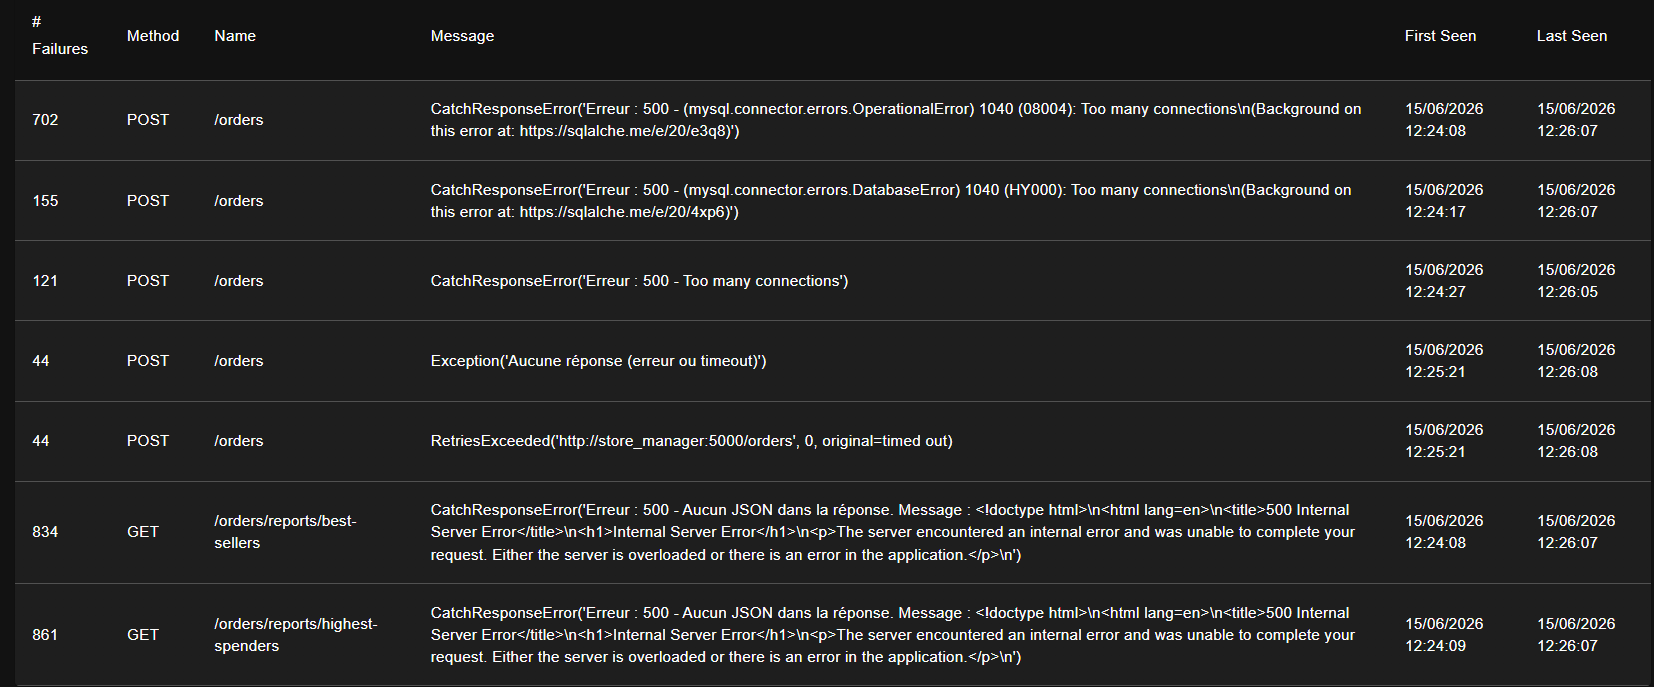
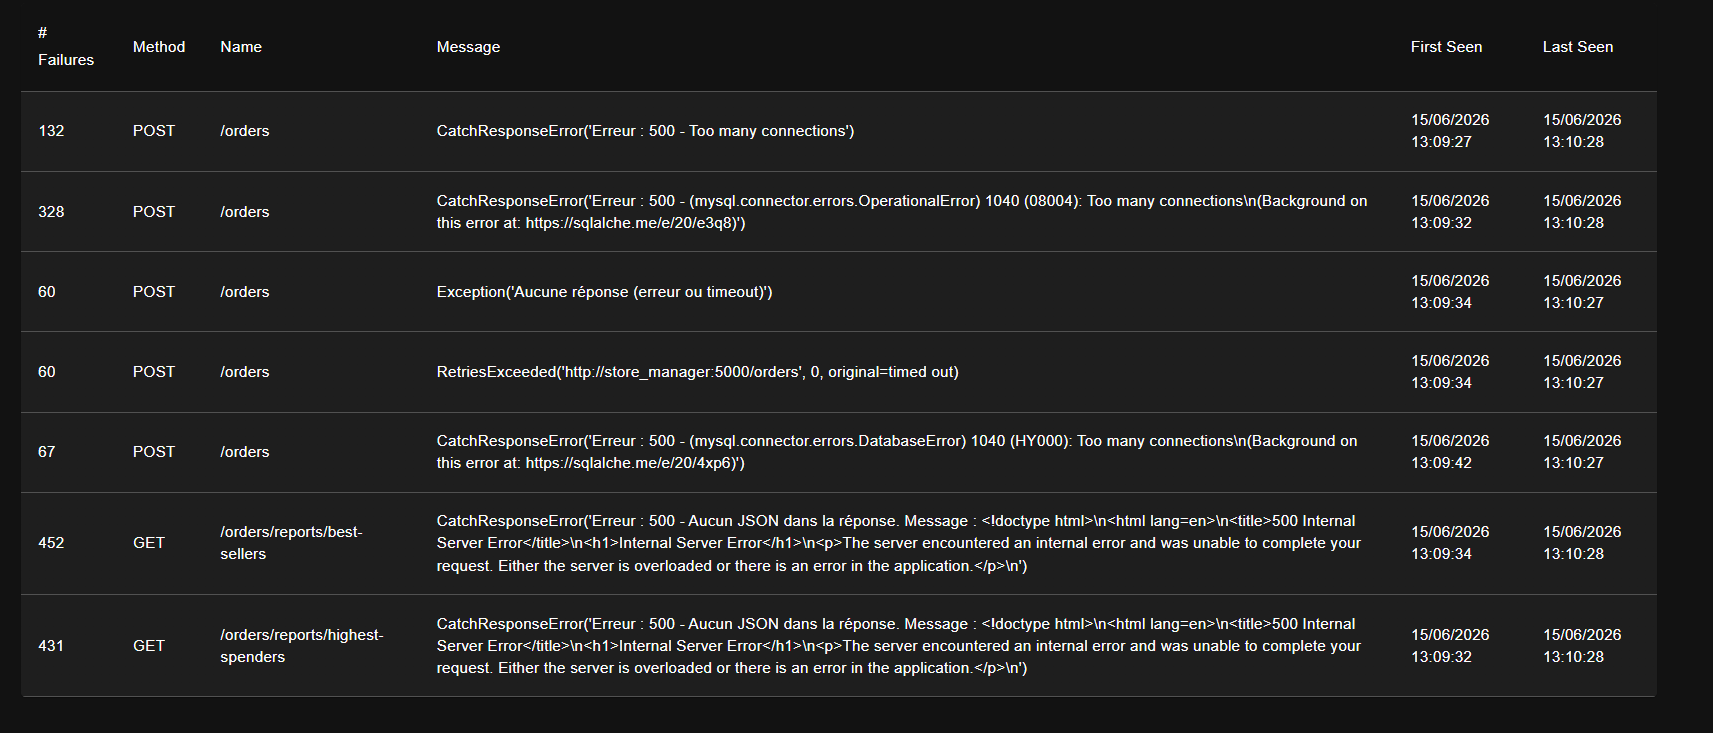
manip fini

diff --git a/src/orders/queries/read_order.py b/src/orders/queries/read_order.py
@@ -1,18 +1,17 @@
 """
-Orders (read-only model)
+Orders (read-only model) [OPTIMIZED]
 SPDX - License - Identifier: LGPL - 3.0 - or -later
 Auteurs : Gabriel C. Ullmann, Fabio Petrillo, 2025
 """
 import json
-import time
 from db import get_redis_conn, get_sqlalchemy_session
 from collections import defaultdict
-from logger import Logger
 from orders.models.order import Order
 from orders.models.order_item import OrderItem
 from sqlalchemy.sql import func
+from logger import Logger
 
-logger = Logger.get_instance("order_reports")
+logger = Logger.get_instance("read_order")
 
 def get_order_by_id(order_id):
     """Get order by ID from Redis"""
@@ -29,7 +28,7 @@ def get_highest_spending_users_mysql():
     """Get report of highest spending users from MySQL"""
     session = get_sqlalchemy_session()
     limit = 10
-    
+
     try:
         results = session.query(
             Order.user_id,
@@ -38,7 +37,7 @@ def get_highest_spending_users_mysql():
          .order_by(func.sum(Order.total_amount).desc())\
          .limit(limit)\
          .all()
-        
+
         return [
             {
                 "user_id": result.user_id,
@@ -54,7 +53,7 @@ def get_best_selling_products_mysql():
     session = get_sqlalchemy_session()
     limit = 100
     result = []
-    
+
     try:
         order_items = session.query(
             OrderItem.product_id,
@@ -63,7 +62,7 @@ def get_best_selling_products_mysql():
          .order_by(func.sum(OrderItem.quantity).desc())\
          .limit(limit)\
          .all()
-        
+
         for order_item in order_items:
             result.append({
                 "product_id": order_item[0],
@@ -75,17 +74,21 @@ def get_best_selling_products_mysql():
     finally:
         session.close()
 
-def get_highest_spending_users_redis():
+def get_highest_spending_users_redis(skip_cache=False):
     """Get report of highest spending users from Redis"""
     result = []
-    try: 
-        start_time = time.time()
-        # TODO: optimiser
-        r = get_redis_conn()
+    r = get_redis_conn()
+    cached = r.get("report:highest_spenders")
+    logger.debug(f"Dans le cache: {cached}")
+    if cached and not skip_cache:
+        return json.loads(cached)
+
+    try:
+        logger.debug("Créer le rapport highest_spenders")
         limit = 10
         order_keys = r.keys("order:*")
         spending = defaultdict(float)
-        
+
         for key in order_keys:
             order_data = r.hgetall(key)
             if "user_id" in order_data and "total_amount" in order_data:
@@ -100,25 +103,29 @@ def get_highest_spending_users_redis():
                 "user_id": user[0],
                 "total_expense": round(user[1], 2)
             })
+        logger.debug(f"Résultat JSON: {result}")
+        r.set('report:highest_spenders', json.dumps(result))
 
     except Exception as e:
         return {'error': str(e)}
+    finally:
+        return result
 
-    end_time = time.time()
-    logger.debug(f"Executed in {end_time - start_time} seconds")
-    return result
-
-def get_best_selling_products_redis():
+def get_best_selling_products_redis(skip_cache=False):
     """Get report of best selling products by quantity sold from Redis"""
     result = []
+    r = get_redis_conn()
+    cached = r.get("report:best_sellers")
+    logger.debug(f"Dans le cache: {cached}")
+    if cached and not skip_cache:
+        return json.loads(cached)
+
     try:
-        start_time = time.time()
-        # TODO: optimiser
-        r = get_redis_conn()
+        logger.debug("Créer le rapport best_sellers")
         limit = 10
         order_keys = r.keys("order:*")
         product_sales = defaultdict(int)
-        
+
         for order_key in order_keys:
             order_data = r.hgetall(order_key)
             if "items" in order_data:
@@ -139,18 +146,18 @@ def get_best_selling_products_redis():
                 "product_id": product[0],
                 "quantity_sold": product[1]
             })
+        logger.debug(f"Résultat JSON: {result}")
+        r.set('report:best_sellers', json.dumps(result))
 
     except Exception as e:
         return {'error': str(e)}
-    
-    end_time = time.time()
-    logger.debug(f"Executed in {end_time - start_time} seconds")
-    return result
+    finally:
+        return result
 
-def get_highest_spending_users():
+def get_highest_spending_users(skip_cache=False):
     """Get report of highest spending users"""
-    return get_highest_spending_users_mysql()
+    return get_highest_spending_users_redis(skip_cache)
 
-def get_best_selling_products():
+def get_best_selling_products(skip_cache=False):
     """Get report of best selling products"""
-    return get_best_selling_products_mysql()
+    return get_best_selling_products_redis(skip_cache)

diff --git a/src/store_manager.py b/src/store_manager.py
@@ -20,6 +20,16 @@ counter_orders = Counter('orders', 'Total calls to POST /orders')
 counter_highest_spenders = Counter('highest_spenders', 'Total calls to GET /orders/reports/highest-spenders')
 counter_best_sellers = Counter('best_sellers', 'Total calls to GET /orders/reports/best-sellers')
 
+# Auto-generate Redis reports 2 seconds after startup (to give enough time for the DB to start up as well).
+# Once done for the first time, repeat it recursively every 60s to refresh the cache.
+def generate_reports_and_cache():
+    threading.Timer(2.0, get_report_highest_spending_users, args=(True,)).start()
+    threading.Timer(2.0, get_report_best_selling_products, args=(True,)).start()
+    threading.Timer(60.0, generate_reports_and_cache).start()
+
+# Start the first execution
+generate_reports_and_cache()
+
 @app.get('/health-check')
 def health():
     """Return OK if app is up and running"""

diff --git a/src/orders/controllers/order_controller.py b/src/orders/controllers/order_controller.py
@@ -37,10 +37,10 @@ def get_order(order_id):
     except Exception as e:
         return jsonify({'error': str(e)}), 500
     
-def get_report_highest_spending_users():
+def get_report_highest_spending_users(skip_cache=False):
     """Get orders report: highest spending users"""
-    return get_highest_spending_users()
+    return get_highest_spending_users(skip_cache)
 
-def get_report_best_selling_products():
+def get_report_best_selling_products(skip_cache=False):
     """Get orders report: best selling products"""
-    return get_best_selling_products()
+    return get_best_selling_products(skip_cache)